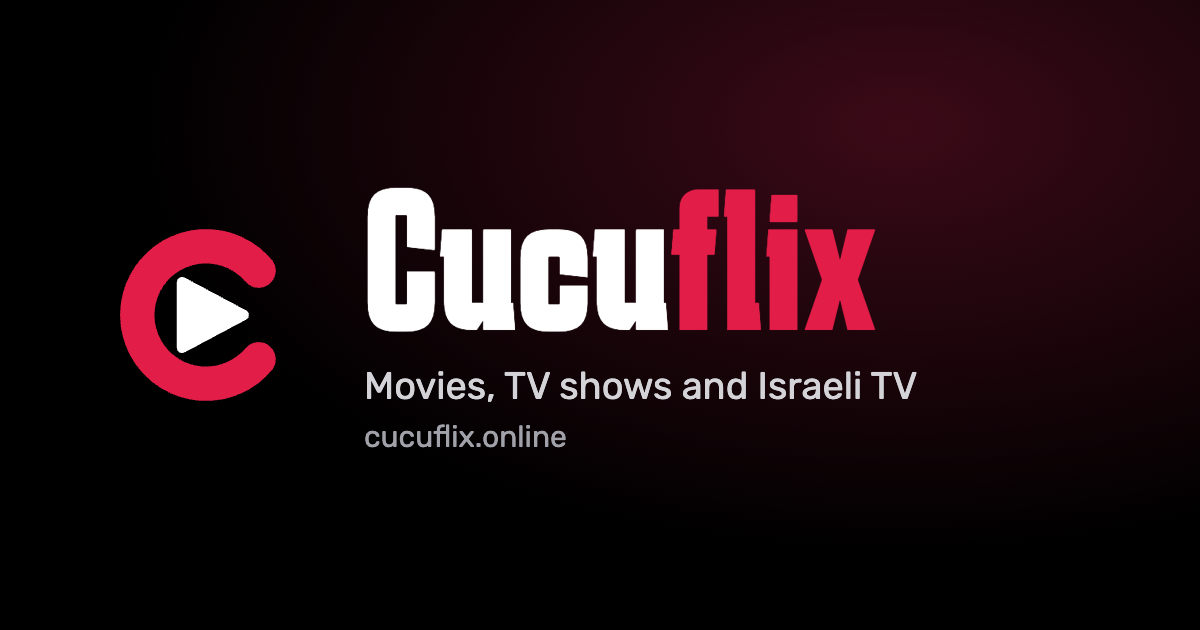
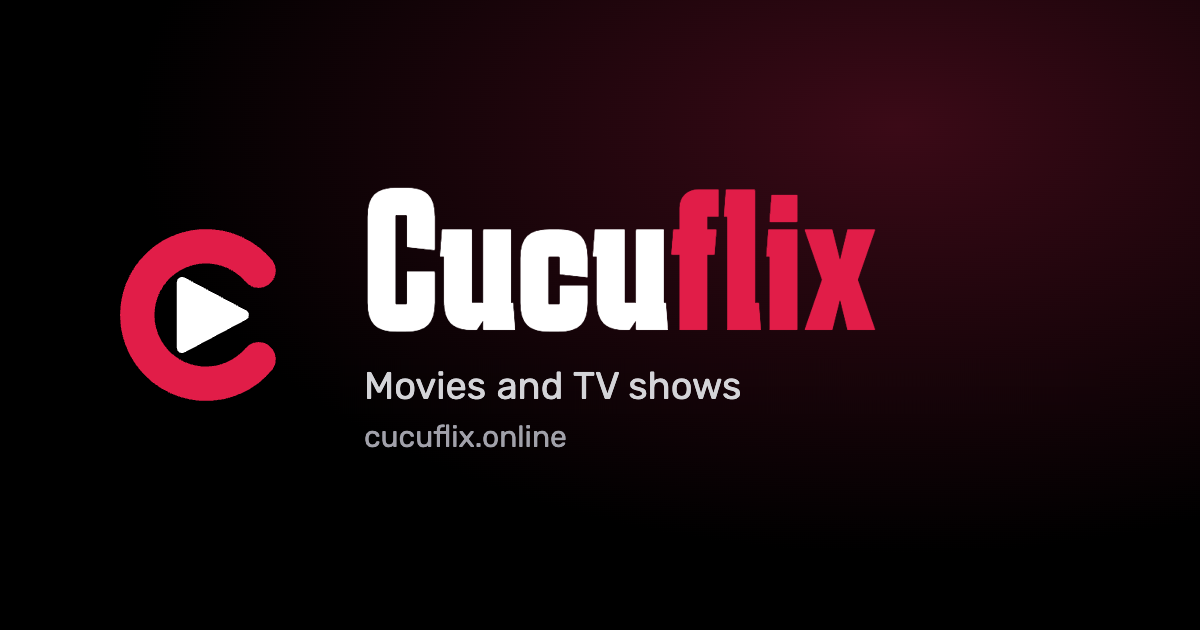
Remove Israeli TV promotion from the site
Drop the Israeli TV nav link, home row and /israel page, and strip the
mentions from meta descriptions, share image, sitemap, llms.txt and API
docs. Israeli titles still appear in search.

Changed region(s): [[0.4008, 0.573, 0.7708, 0.6333]]

diff --git a/index.html b/index.html
@@ -5,7 +5,7 @@
     <meta name="viewport" content="width=device-width, initial-scale=1.0" />
     <!-- data-static tags are what crawlers see without JS; main.tsx swaps them for per-route tags. -->
     <title data-static>Cucuflix: Free Website to Watch Movies &amp; TV Shows Online</title>
-    <meta data-static name="description" content="Cucuflix is a free website to watch movies and TV shows online. Stream trending, popular and top rated films and series, plus Israeli TV." />
+    <meta data-static name="description" content="Cucuflix is a free website to watch movies and TV shows online. Stream trending, popular and top rated films and series." />
     <link data-static rel="canonical" href="https://cucuflix.online/" />
     <meta data-static name="robots" content="index, follow, max-image-preview:large" />
     <meta name="application-name" content="Cucuflix" />
@@ -23,14 +23,14 @@
     <meta property="og:type" content="website" />
     <meta property="og:url" content="https://cucuflix.online/" />
     <meta property="og:title" content="Cucuflix: Free Website to Watch Movies &amp; TV Shows Online" />
-    <meta property="og:description" content="Watch movies and TV shows online for free, including Israeli TV." />
+    <meta property="og:description" content="Watch movies and TV shows online for free." />
     <meta property="og:image" content="https://cucuflix.online/og-image.png" />
     <meta property="og:image:width" content="1200" />
     <meta property="og:image:height" content="630" />
     <meta property="og:image:alt" content="Cucuflix" />
     <meta name="twitter:card" content="summary_large_image" />
     <meta name="twitter:title" content="Cucuflix" />
-    <meta name="twitter:description" content="Watch movies and TV shows online for free, including Israeli TV." />
+    <meta name="twitter:description" content="Watch movies and TV shows online for free." />
     <meta name="twitter:image" content="https://cucuflix.online/og-image.png" />
 
     <script type="application/ld+json">
@@ -71,8 +71,8 @@
       <!-- Replaced by the app on load; gives non-JS crawlers the brand and main links. -->
       <header>
         <h1>Cucuflix</h1>
-        <p>A free website to watch movies and TV shows online: trending, popular, top rated and Israeli TV.</p>
-        <nav><a href="/movies">Movies</a> <a href="/tv">TV Shows</a> <a href="/israel">Israeli TV</a></nav>
+        <p>A free website to watch movies and TV shows online: trending, popular and top rated.</p>
+        <nav><a href="/movies">Movies</a> <a href="/tv">TV Shows</a></nav>
       </header>
     </div>
     <script type="module" src="/src/main.tsx"></script>

diff --git a/src/pages/Home.tsx b/src/pages/Home.tsx
@@ -1,4 +1,4 @@
-import { discoverByCountry, getFamousTv, getList, getTrending } from '../api'
+import { getFamousTv, getList, getTrending } from '../api'
 import ContinueWatching from '../components/ContinueWatching'
 import Hero from '../components/Hero'
 import MyListRow from '../components/MyListRow'
@@ -10,7 +10,7 @@ export default function Home() {
     <>
       <Seo
         path="/"
-        description="Cucuflix is a free website to watch movies and TV shows online. Stream trending, popular and top rated films and series, plus Israeli TV."
+        description="Cucuflix is a free website to watch movies and TV shows online. Stream trending, popular and top rated films and series."
       />
       <h1 className="sr-only">Cucuflix: watch movies and TV shows online for free</h1>
       <Hero load={getTrending} />
@@ -21,7 +21,6 @@ export default function Home() {
         <Row title="Popular Movies" load={() => getList('/movie/popular', 'movie')} />
         <Row title="Popular TV Shows" load={() => getFamousTv('popularity.desc')} />
         <Row title="All-Time Favorite Shows" load={() => getFamousTv('vote_count.desc')} />
-        <Row title="Israeli TV" load={() => discoverByCountry('tv', 'IL')} />
         <Row title="Top Rated Movies" load={() => getList('/movie/top_rated', 'movie')} />
         <Row title="Top Rated TV" load={() => getFamousTv('vote_average.desc')} />
       </div>

diff --git a/src/App.tsx b/src/App.tsx
@@ -6,7 +6,6 @@ import { hasApiKey } from './api'
 import Navbar from './components/Navbar'
 import Browse from './pages/Browse'
 import Home from './pages/Home'
-import Israel from './pages/Israel'
 import MyList from './pages/MyList'
 import Search from './pages/Search'
 import Watch from './pages/Watch'
@@ -61,7 +60,6 @@ function Site() {
           <Route path="/" element={<Home />} />
           <Route path="/movies" element={<Browse type="movie" />} />
           <Route path="/tv" element={<Browse type="tv" />} />
-          <Route path="/israel" element={<Israel />} />
           <Route path="/search" element={<Search />} />
           <Route path="/my-list" element={<MyList />} />
           <Route path="/movie/:id" element={<Watch type="movie" />} />

diff --git a/src/components/Navbar.tsx b/src/components/Navbar.tsx
@@ -1,4 +1,4 @@
-import { Bookmark, Clapperboard, Film, Home, Loader2, Search, Star, Tv } from 'lucide-react'
+import { Bookmark, Film, Home, Loader2, Search, Star, Tv } from 'lucide-react'
 import { useEffect, useRef, useState, type FormEvent, type KeyboardEvent } from 'react'
 import { Link, NavLink, useLocation, useNavigate } from 'react-router-dom'
 import { track } from '../analytics'
@@ -9,7 +9,6 @@ const LINKS = [
   { to: '/', label: 'Home', icon: Home, end: true },
   { to: '/movies', label: 'Movies', icon: Film },
   { to: '/tv', label: 'TV Shows', icon: Tv },
-  { to: '/israel', label: 'Israeli TV', icon: Clapperboard },
   { to: '/my-list', label: 'My List', icon: Bookmark },
 ]
 

diff --git a/src/api.ts b/src/api.ts
@@ -189,12 +189,6 @@ export async function getDetails(type: MediaType, id: string): Promise<Details> 
 export const getEpisodes = async (id: string, season: number) =>
   (await tmdb<{ episodes: Episode[] }>(`/tv/${id}/season/${season}`)).episodes
 
-// Titles produced in a given country (ISO 3166-1, e.g. IL for Israel).
-export const discoverByCountry = async (type: MediaType, country: string, sort = 'popularity.desc') =>
-  (await tmdb<Page>(`/discover/${type}`, { with_origin_country: country, sort_by: sort, 'vote_count.gte': '5' })).results.map(
-    (r) => normalize(r, type),
-  )
-
 // ISO 639-1 codes, as the players take them.
 export interface Server {
   id: string

diff --git a/api/docs.ts b/api/docs.ts
@@ -11,7 +11,7 @@ export function spec(origin: string) {
       version: '1.0.0',
       summary: 'Public API behind cucuflix.online, a free site to watch movies and TV shows online.',
       description: [
-        'Cucuflix streams movies, TV shows and Israeli TV in the browser with no sign-up.',
+        'Cucuflix streams movies and TV shows in the browser with no sign-up.',
         'Every title has a page at `/movie/{tmdb_id}` or `/tv/{tmdb_id}`, keyed by its TMDB ID.',
         `A plain-language overview of the site is at ${SITE}/llms.txt.`,
       ].join(' '),

diff --git a/README.md b/README.md
@@ -1,6 +1,6 @@
 # Cucuflix
 
-A React + Vite site for browsing movies and TV shows (including Israeli series) with embedded players.
+A React + Vite site for browsing movies and TV shows with embedded players.
 
 - **Metadata:** [TMDB](https://www.themoviedb.org/) (titles, posters, seasons, episodes)
 - **Players:** Videasy (default, no pop-ups) and VidSrc (backup, may show pop-ups)
